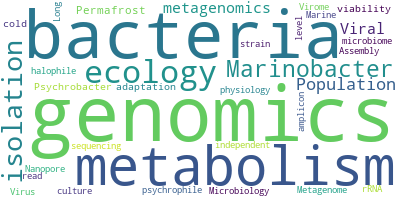
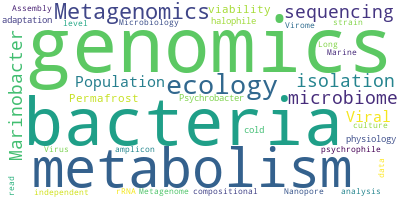
Glooretal2017

diff --git a/papers/Metagenomics/Methods/Glooretal2017.md b/papers/Metagenomics/Methods/Glooretal2017.md
@@ -1,0 +1,22 @@
+07/25/19
+## Authors:
+Gloor, G.B., Macklaim, J.M., Pawlowsky-Glahn, V., J.J., Egozcue
+## Title:
+Microbiome Datasets Are Compositional: And This Is Not Optional
+## Keywords:
+Metagenomics, sequencing, data analysis, microbiome, compositional
+## Geographic Coverage
+N/A
+## Field Dates:
+N/A
+## Significance:
+This paper reviews the issues and approaches to dealing with compositional data.
+
+## Notes:
+Reporting relative abundances of reads can be misleading since different total read counts may skew relative abundances in stochastic ways.
+
+Centered log-ratio transformation of data can account for differential read abundances and feed into more meaningful analyses that are less likely to give false-positive results.
+
+Concluding hypotheses
+* Microbiome data shouldn't be rarefied or normalized, but it should be transformed to account for compositional differneces.
+* Transformed data is less likely to give false-positive results.

diff --git a/README.md b/README.md
@@ -36,6 +36,11 @@ Notes (author, year, journal in file header) on readings.  Top of each note docu
 ## Metagenomics 
  
 
+### Methods 
+ 
+* [Glooretal2017 - Microbiome Datasets Are Compositional: And This Is Not Optional](https://github.com/zscooper/ReadingList/tree/master/papers/Metagenomics/Methods/Glooretal2017.md) 
+     * This paper reviews the issues and approaches to dealing with compositional data. 
+
 ### Population Genetics 
  
 * [DeLong2002 - Microbial population genomics and ecology](https://github.com/zscooper/ReadingList/tree/master/papers/Metagenomics/Population Genetics/DeLong2002.md) 
